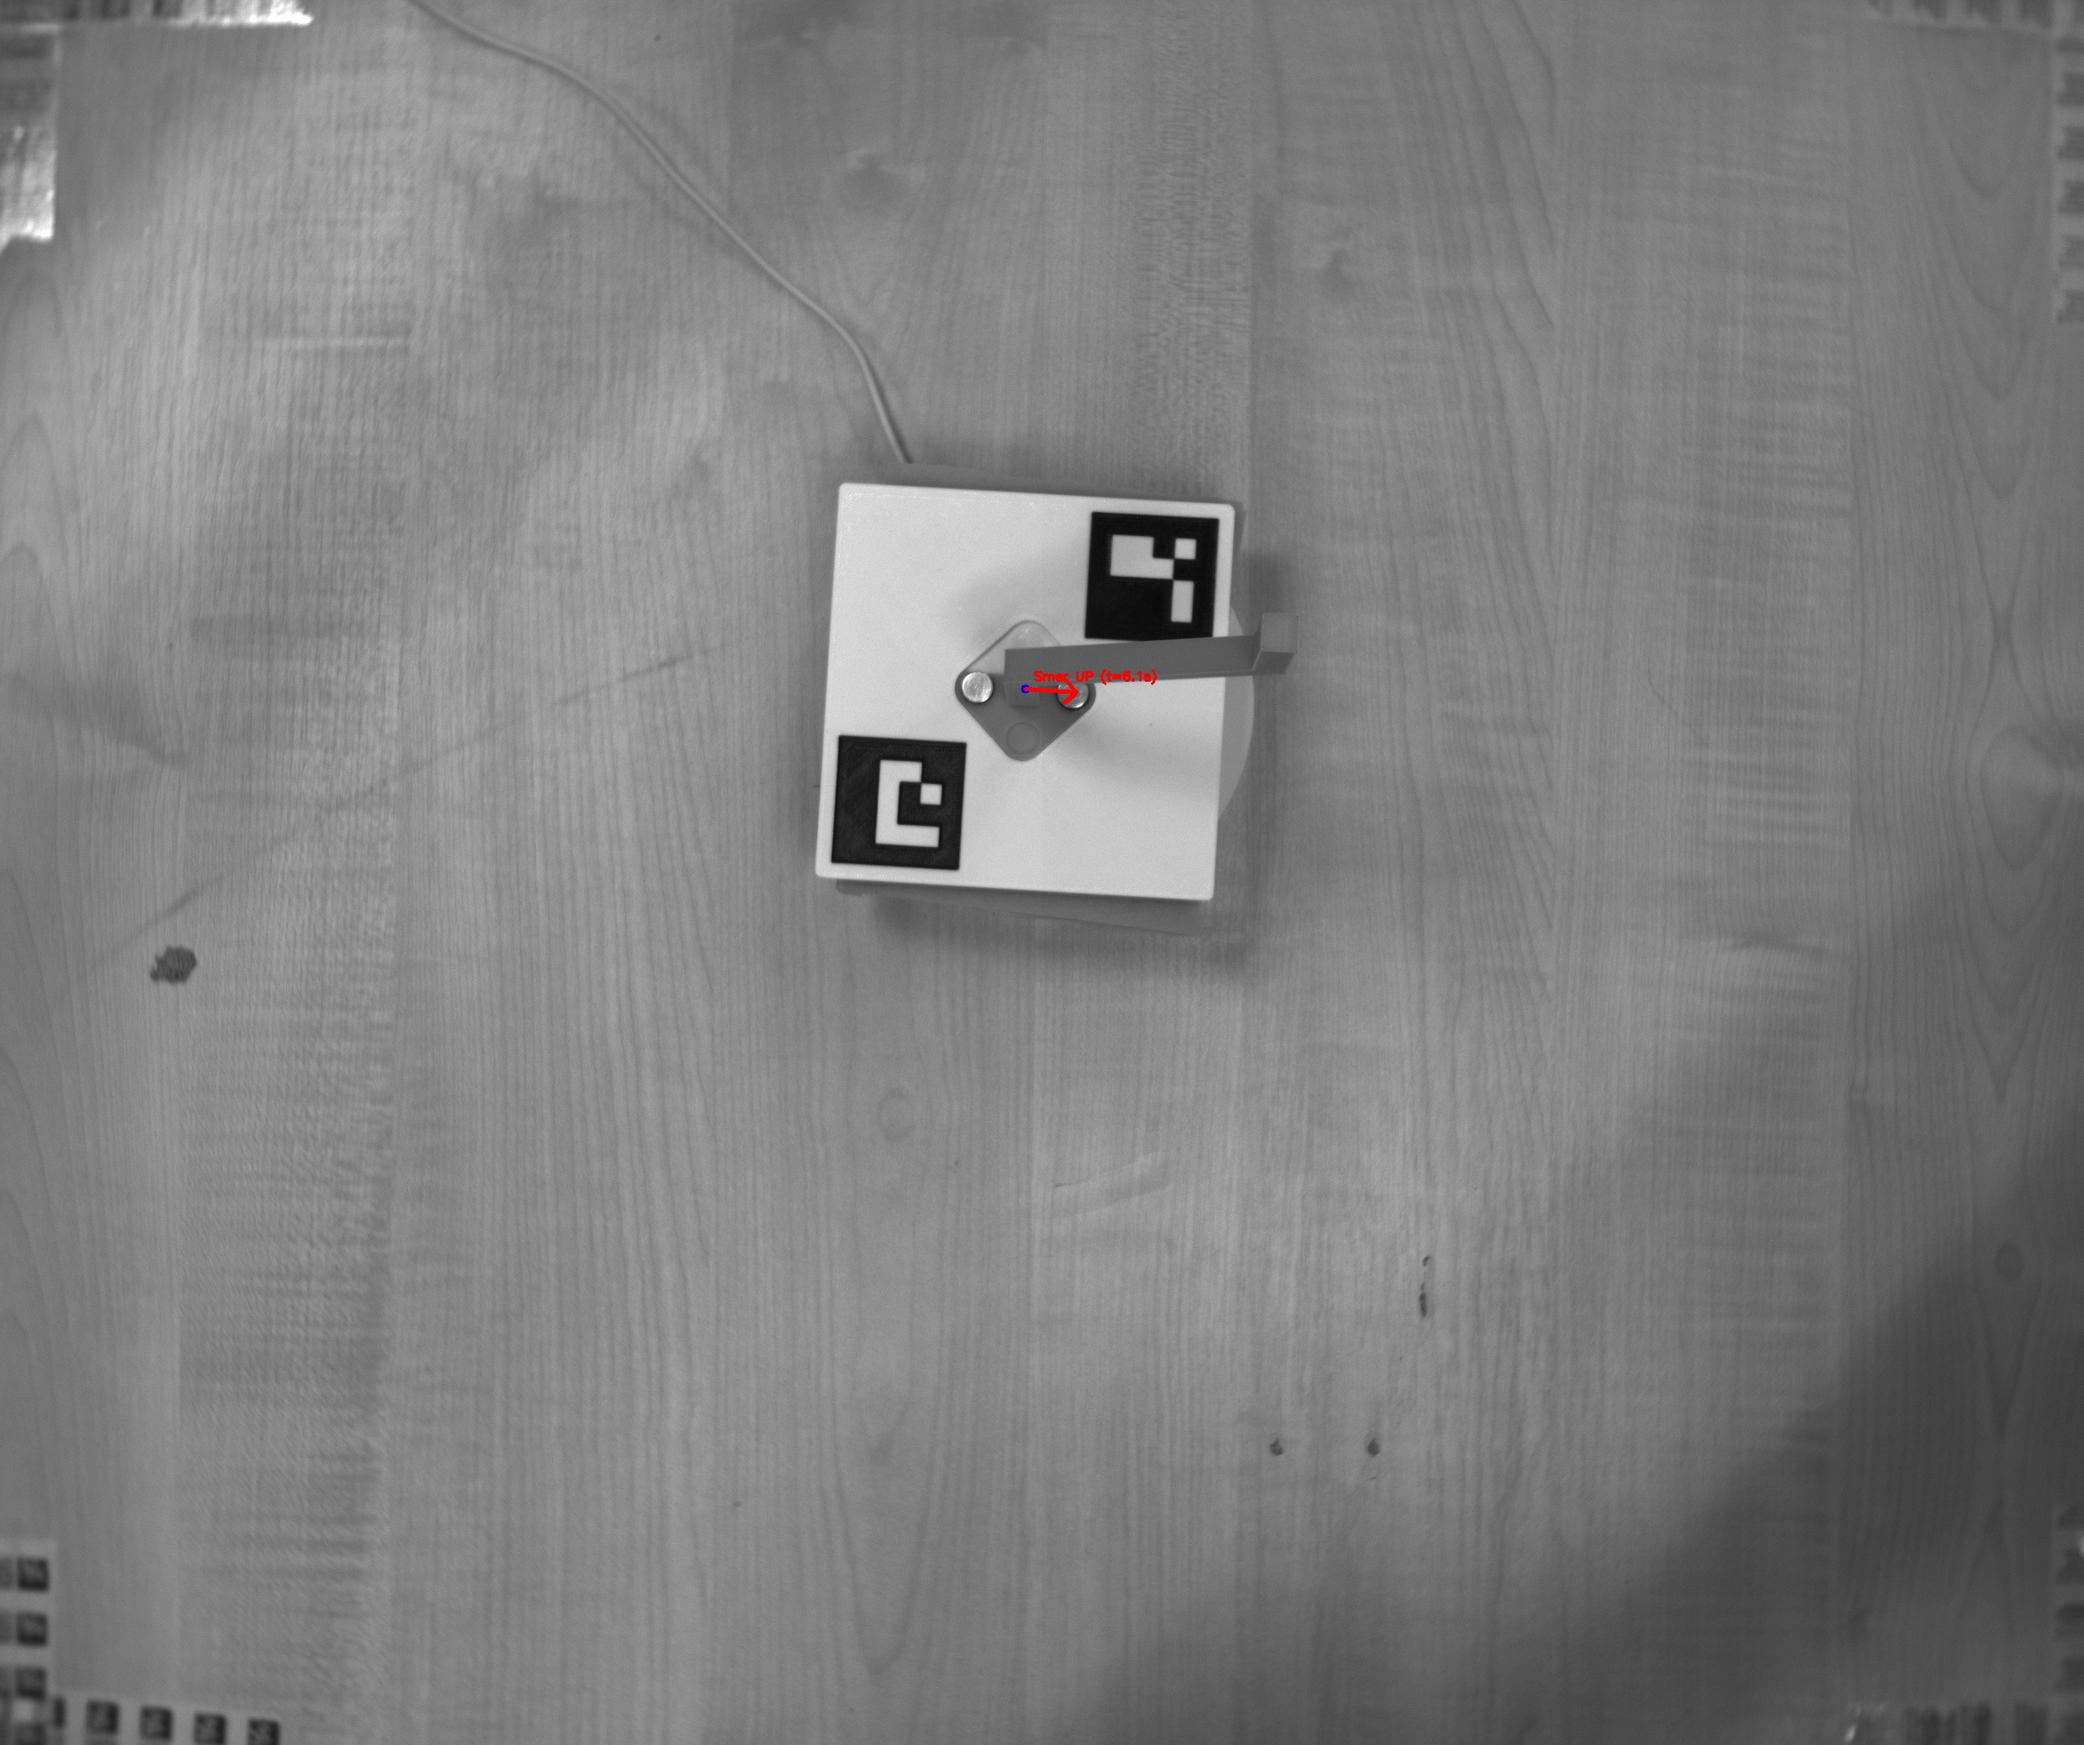
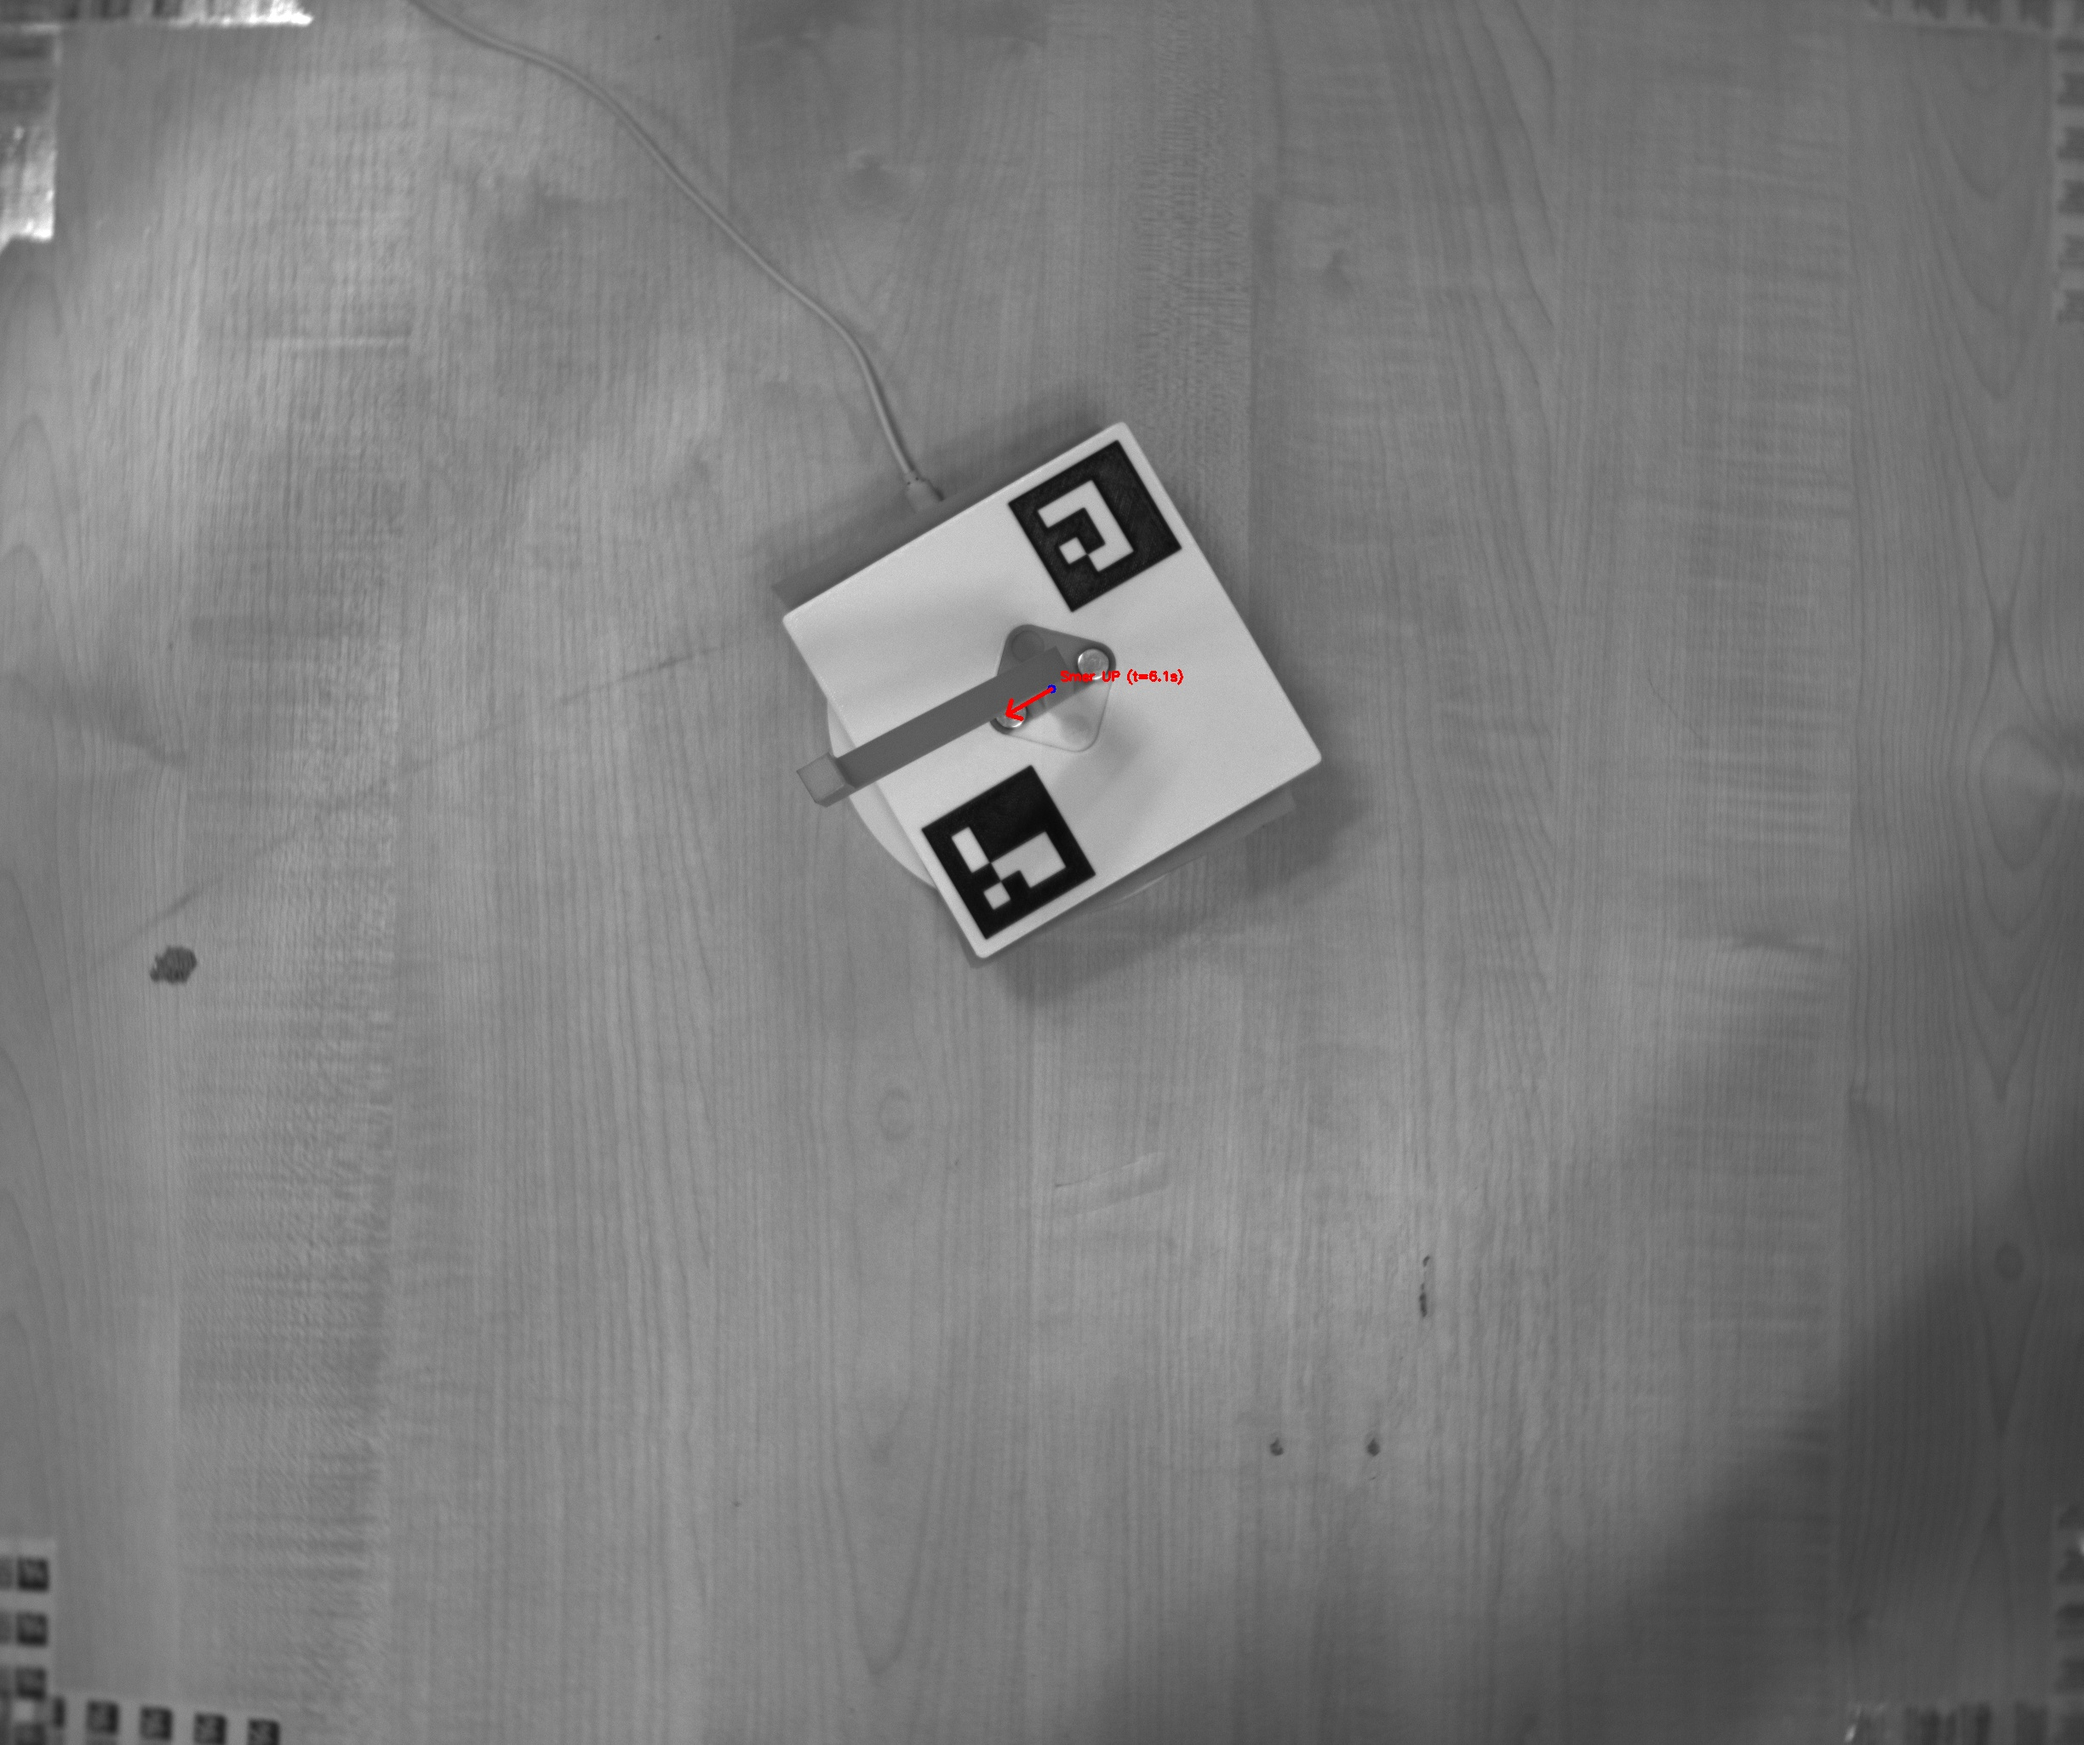
25_all

Changed region(s): [[0.3725, 0.2185, 0.652, 0.562], [0.4967, 0.562, 0.5278, 0.5932]]

diff --git a/ctu_mitsubishi-main/examples/25_control_rotation.py b/ctu_mitsubishi-main/examples/25_control_rotation.py
@@ -20,7 +20,7 @@ Home_position = np.array([
     [0,  0,  0,  1.0]
 ])
 
-ROBOT_DELAY = 2.5
+ROBOT_DELAY = 2.2
 
 # ==========================================
 # POMOCNÉ FUNKCE
@@ -251,13 +251,13 @@ if __name__ == "__main__":
 
     # 3. KONTROLNÍ TEST: SLEDOVÁNÍ V Z = 32 cm BEZ PRERUŠENÍ PŘI CHYBĚ IK
     print("\n--- Spouštím sledování začátku tyče v Z = 32 cm ---")
-    tracking_duration = 30.0
+    tracking_duration = 15
     t_track_start = time()
 
     while (time() - t_track_start) < tracking_duration:
         dt_target = (time() - t0) + ROBOT_DELAY
-        pos_target_m = get_predicted_start_path_m(dt_target)
-        T_target_z32 = get_gripper_pose_for_circle_target(pos_target_m[0], pos_target_m[1], 0.32)
+        pos_target_m = get_predicted_start_path_m(dt_target+0.9)
+        T_target_z32 = get_gripper_pose_for_circle_target(pos_target_m[0], pos_target_m[1], 0.29)
 
         # Pokud vrátil False (chyba IK), NEPOKRAČUJE BREAKEM, ale prostě zkusí další bod
         if not move_bot(robot, T_target_z32):
